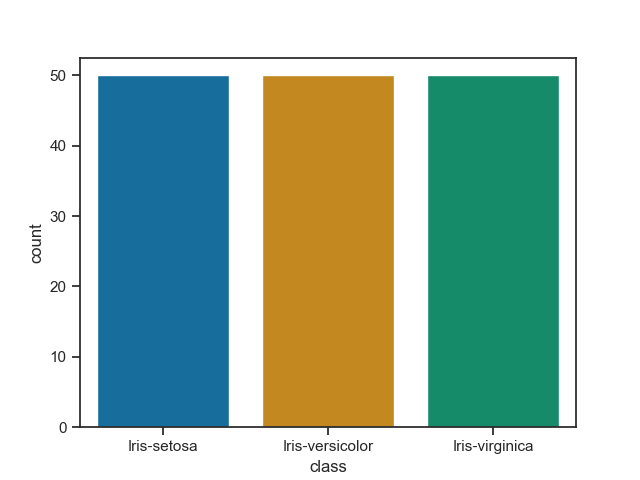
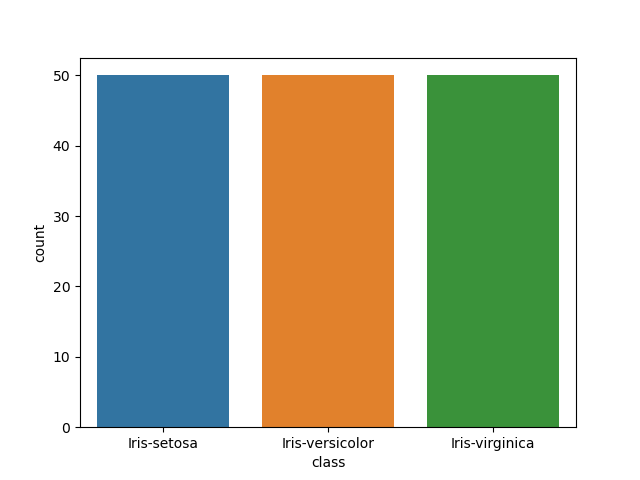
Updated with the restructuring of the code and generated files running again

diff --git a/analysis.py b/analysis.py
@@ -1,7 +1,5 @@
-# PROGRAMMING AND SCRIPTING PROJECT
+# PROGRAMMING AND SCRIPTING PROJECT: ANALYSIS OF THE FISHER’S IRIS DATASET
 # Author: Rita Ortega
-
-# SECTION 1: Outputs a summary of each variable to a single text file
 
 # Imports all the libraries used in the project:
 import pandas as pd
@@ -9,22 +7,28 @@ import matplotlib.pyplot as plt
 import seaborn as sns
 
 
-# Reads the CSV file using pandas and sets the name of the columns:
+# Reads the CSV file contains on the repository using pandas and sets the name of the columns:
 
 column_name = ['sepal_length', 'sepal_width',
                'petal_length', 'petal_width', 'class']
 df = pd.read_csv('iris_data.csv', names=column_name)
 
 
-# Prints out information about the dataset:
-print(df.info())
+# SECTION 1: Analysis Per Variable 
 
+# SECTION 1.1: Brief Description of The Dataset
+
+# Prints out a brief information about the dataset:
+print(df.info())
 
 # Prints out the first 10 rows of the dataset:
 print(df.head(10))
 
-# Creates a txt file called "variables_summary.txt" and writes a summary of each variable in it.
-# Also, it converts the Summary statistics of the Dataframe into a string in order to be able to save it into the file:
+
+# SECTION 1.2: Summary of Each Variable
+
+# Creates a txt file called "variables_summary.txt" and writes a summary of each variable in it using pandas
+# Also, it converts the summary statistics of the dataframe into a string in order to be able to save it into the file:
 
 filename = "variables_summary.txt"
 
@@ -34,28 +38,8 @@ with open(filename, 'wt') as f:
     f.write(variables_summary)
 
 
-"""
+# SECTION 1.3: Histogram of Each Quantitative Variable 
 
-REFERENCES:
-
-https://www.codegrepper.com/code-examples/python/pandas+read+csv+without+index
-https://pandas.pydata.org/docs/user_guide/io.html#io-read-csv-table
-https://www.adamsmith.haus/python/answers/how-to-set-column-names-when-importing-a-csv-into-a-pandas-dataframe-in-python#:~:text=Call%20pandas.,order%20they%20appear%20in%20names%20.
-https://www.sharpsightlabs.com/blog/pandas-describe/
-https://pandas.pydata.org/docs/reference/api/pandas.DataFrame.describe.html
-https://github.com/andrewbeattycourseware/pands2022/blob/main/jupyternotebooks/Topic07%20files.ipynb
-https://pandas.pydata.org/docs/reference/api/pandas.DataFrame.to_string.html
-https://www.w3schools.com/python/pandas/ref_df_info.asp#:~:text=The%20info()%20method%20prints,method%20actually%20prints%20the%20info. 
-https://www.w3resource.com/pandas/dataframe/dataframe-head.php
-
-
-"""
-
-
-# SECTION 2: Saves a histogram of each variable to png files
-
-
-# Histogram of each qualitative variable
 variables_histogram = df.hist(bins=15, color='blue', edgecolor='black', grid = False, xlabelsize=8, ylabelsize=8)
 plt.suptitle('Variables Histogram',
              fontsize=12.0, fontweight='bold', y=0.99)
@@ -63,7 +47,50 @@ plt.savefig("variables_histogram.png")
 plt.close()
 
 
-# Creates four files with histograms by class for each quantitative variable (sepal length, sepal width, petal_length and petal_width):
+# SECTION 1.4: Bar Plot for The Variable "Class"
+
+class_barplot = sns.countplot(x='class', data=df )
+plt.savefig("class_barplot.png")
+plt.close()
+
+
+# SECTION 1.5: Correlation Between Variables
+
+# Creates a txt file called "variables_correlation.txt" and writes a correlation table of each variable in it.
+# Also, it converts the correlation table into a string in order to be able to save it into the file.
+
+filename = "variables_correlation.txt"
+
+variables_correlation = df.corr().to_string()
+with open(filename, 'wt') as f:
+    f.write(variables_correlation)
+
+
+# Creates a correlation heatmap using seaborn library:
+heatmap_correlation = sns.heatmap(
+    df.corr(), vmin=-1, vmax=1, annot=True, linecolor='white', linewidth=1, cmap='GnBu')
+heatmap_correlation.set_title(
+    'Correlation Heatmap', fontsize=12.0, fontweight='bold')
+plt.savefig("correlation_heatmap.png")
+plt.close()
+
+# --------------------------------------------------
+
+# SECTION 2: Analysis of Each Quantitative Variable Grouped by Iris Species
+
+# SECTION 2.1: Summary of Each Variable Grouped by Iris Species
+
+filename = 'variables_summary_by_class.txt'
+variables_summary_by_class = df.groupby(['class']).describe(percentiles=[
+    0.05, 0.25, 0.75, 0.95]).transpose().to_string()
+
+with open(filename, 'wt') as f:
+    f.write(variables_summary_by_class)
+
+
+# SECTION 2.2: Histogram of Each Quantitative Variable Grouped by Iris Species
+
+# Creates four files with histograms by species for each quantitative variable (sepal length, sepal width, petal_length and petal_width):
 sepal_lenght_hist = df.hist(column='sepal_length', by='class', bins=15,
                             xlabelsize=8, ylabelsize=8, xrot=360, color='green', edgecolor='black')
 plt.suptitle('Sepal Length Histograms by Class',
@@ -92,26 +119,8 @@ plt.suptitle('Petal Width Histograms by Class',
 plt.savefig("petal_width_hist.png")
 plt.close()
 
-"""
 
-REFERENCES:
-https://moonbooks.org/Articles/How-to-create-an-histogram-from-a-dataframe-using-pandas-in-python-/
-https://stackoverflow.com/questions/31596084/save-dataframe-hist-to-a-file
-https://www.marsja.se/how-to-plot-a-histogram-with-pandas-in-3-simple-steps/
-https://www.machinelearningplus.com/pandas/pandas-histogram/
-https://datagy.io/histogram-python/
-https://pandas.pydata.org/docs/reference/api/pandas.DataFrame.hist.html
-https://stackoverflow.com/questions/19614400/add-title-to-collection-of-pandas-hist-plots
-https://www.includehelp.com/python/bold-text-label-in-plot.aspx
-https://www.oreilly.com/library/view/python-data-science/9781491912126/ch04.html
-https://matplotlib.org/stable/gallery/text_labels_and_annotations/titles_demo.html
-
-
-
-"""
-
-
-# SECTION 3: Outputs a scatter plot of each pair of variables to a png file
+# SECTION 2.3: Scatter Plot of Each Pair of Variables
 
 # It has been used the Seaborn library in order to perform this analysis. The result is saved to a png file.
 
@@ -123,49 +132,8 @@ plt.suptitle('Pair Plot of Each Pair of Quantitative Variables',
 plt.savefig("scatter_plots.png")
 plt.close()
 
-"""
 
-REFERENCES:
-https://towardsdatascience.com/visualizing-data-with-pair-plots-in-python-f228cf529166
-https://www.tutorialspoint.com/increase-the-distance-between-the-title-and-the-plot-in-matplotlib
-https://seaborn.pydata.org/generated/seaborn.pairplot.html
-https://seaborn.pydata.org/generated/seaborn.set_style.html
-https://goodboychan.github.io/python/datacamp/visualization/2020/06/27/01-Customizing-Seaborn-Plots.html
-https://wellsr.com/python/seaborn-scatter-plot-with-sns-scatterplot/
-https://stackoverflow.com/questions/37734512/savefig-loop-adds-previous-plots-to-figure?fbclid=IwAR101W3aPSKbrgkL3Yu7aDcehCFMBPVBF055xb1iNDqQE-AuM0Mjn4ArKaE
-
-
-
-
-
-"""
-
-
-# SECTION 4: Additional analysis that I think is appropriate for this case
-
-# SECTION 4.1: Correlation between variables
-
-# Creates a txt file called "variables_correlation.txt" and writes a correlation table of each variable in it.
-# Also, it converts the correlation table into a string in order to be able to save it into the file.
-
-filename = "variables_correlation.txt"
-
-variables_correlation = df.corr().to_string()
-with open(filename, 'wt') as f:
-    f.write(variables_correlation)
-
-
-# Creates a correlation heatmap using seaborn library:
-heatmap_correlation = sns.heatmap(
-    df.corr(), vmin=-1, vmax=1, annot=True, linecolor='white', linewidth=1, cmap='GnBu')
-heatmap_correlation.set_title(
-    'Correlation Heatmap', fontsize=12.0, fontweight='bold')
-plt.savefig("correlation_heatmap.png")
-plt.close()
-
-
-# SECTION 4.2: Box plots
-
+# SECTION 2.4: Box Plot of Each Quantitative Variable Grouped by Iris Species
 
 # Sets seaborn plotting aesthetics as default
 sns.set(style='ticks', palette= 'colorblind')
@@ -173,8 +141,8 @@ sns.set(style='ticks', palette= 'colorblind')
 # Defines plotting region (2 rows, 2 columns)
 fig, axes = plt.subplots(2, 2)
 plt.gcf().set_size_inches(20, 10)
-# Creates boxplot in each subplot for the four quantitative variables by class:
 
+# Creates boxplot in each subplot for the four quantitative variables by class:
 sns.boxplot(data=df, x='class', y='sepal_length', ax=axes[0, 0])
 sns.boxplot(data=df, x='class', y='sepal_width', ax=axes[0, 1])
 sns.boxplot(data=df, x='class', y='petal_length', ax=axes[1, 0])
@@ -183,24 +151,8 @@ plt.savefig("box_plots.png")
 plt.close()
 
 
-# SECTION 4.3: Variables Summary Group by Class
+# SECTION 2.5: Correlation Between Variables Grouped by Iris Species
 
-filename = 'variables_summary_by_class.txt'
-variables_summary_by_class = df.groupby(['class']).describe(percentiles=[
-    0.05, 0.25, 0.75, 0.95]).transpose().to_string()
-
-with open(filename, 'wt') as f:
-    f.write(variables_summary_by_class)
-
-
-# SECTION 4.4:
-
-class_barplot = sns.countplot(x='class', data=df )
-plt.savefig("class_barplot.png")
-plt.close()
-
-
-# SECTION 4.5: Variables Correlation Heatmap Group by Class
 
 sns.set(style='ticks')
 
@@ -232,30 +184,3 @@ plt.close()
 
 
 
-
-
-"""
-
-REFERENCES:
-https://www.adamsmith.haus/python/answers/how-to-find-the-correlation-between-two-pandas-dataframe-columns-in-python
-https://github.com/andrewbeattycourseware/pands2022/blob/main/jupyternotebooks/Topic07%20files.ipynb
-https://pandas.pydata.org/docs/reference/api/pandas.DataFrame.boxplot.html
-https://nickmccullum.com/python-visualization/boxplot/
-https://matplotlib.org/stable/tutorials/colors/colormaps.html
-https://seaborn.pydata.org/generated/seaborn.heatmap.html
-https://towardsdatascience.com/heatmap-basics-with-pythons-seaborn-fb92ea280a6c
-https://www.statology.org/seaborn-subplots/ 
-https://stackoverflow.com/questions/52274643/figsize-in-matplotlib-is-not-changing-the-figure-size
-https://pandas.pydata.org/docs/reference/api/pandas.DataFrame.groupby.html
-https://pandas.pydata.org/docs/reference/api/pandas.DataFrame.transpose.html
-https://towardsdatascience.com/matplotlib-seaborn-basics-2bd7b66dbee2
-https://s3.amazonaws.com/assets.datacamp.com/production/course_6919/slides/chapter2.pdf
-https://seaborn.pydata.org/tutorial/color_palettes.html
-https://seaborn.pydata.org/generated/seaborn.countplot.html
-https://stackoverflow.com/questions/10035446/how-can-i-make-a-blank-subplot-in-matplotlib
-https://stackoverflow.com/questions/32723798/how-do-i-add-a-title-and-axis-labels-to-seaborn-heatmap
-https://stackoverflow.com/questions/14734533/how-to-access-pandas-groupby-dataframe-by-key
-
-
-
-"""

diff --git a/README.md b/README.md
@@ -11,3 +11,51 @@ How to format source code in Visual Studio: https://mkyong.com/vscode/how-to-for
 
 
 
+CODE'S REFERENCES:
+
+https://www.codegrepper.com/code-examples/python/pandas+read+csv+without+index
+https://pandas.pydata.org/docs/user_guide/io.html#io-read-csv-table
+https://www.adamsmith.haus/python/answers/how-to-set-column-names-when-importing-a-csv-into-a-pandas-dataframe-in-python#:~:text=Call%20pandas.,order%20they%20appear%20in%20names%20.
+https://www.sharpsightlabs.com/blog/pandas-describe/
+https://pandas.pydata.org/docs/reference/api/pandas.DataFrame.describe.html
+https://github.com/andrewbeattycourseware/pands2022/blob/main/jupyternotebooks/Topic07%20files.ipynb
+https://pandas.pydata.org/docs/reference/api/pandas.DataFrame.to_string.html
+https://www.w3schools.com/python/pandas/ref_df_info.asp#:~:text=The%20info()%20method%20prints,method%20actually%20prints%20the%20info. 
+https://www.w3resource.com/pandas/dataframe/dataframe-head.php
+https://moonbooks.org/Articles/How-to-create-an-histogram-from-a-dataframe-using-pandas-in-python-/
+https://stackoverflow.com/questions/31596084/save-dataframe-hist-to-a-file
+https://www.marsja.se/how-to-plot-a-histogram-with-pandas-in-3-simple-steps/
+https://www.machinelearningplus.com/pandas/pandas-histogram/
+https://datagy.io/histogram-python/
+https://pandas.pydata.org/docs/reference/api/pandas.DataFrame.hist.html
+https://stackoverflow.com/questions/19614400/add-title-to-collection-of-pandas-hist-plots
+https://www.includehelp.com/python/bold-text-label-in-plot.aspx
+https://www.oreilly.com/library/view/python-data-science/9781491912126/ch04.html
+https://matplotlib.org/stable/gallery/text_labels_and_annotations/titles_demo.html
+https://towardsdatascience.com/visualizing-data-with-pair-plots-in-python-f228cf529166
+https://www.tutorialspoint.com/increase-the-distance-between-the-title-and-the-plot-in-matplotlib
+https://seaborn.pydata.org/generated/seaborn.pairplot.html
+https://seaborn.pydata.org/generated/seaborn.set_style.html
+https://goodboychan.github.io/python/datacamp/visualization/2020/06/27/01-Customizing-Seaborn-Plots.html
+https://wellsr.com/python/seaborn-scatter-plot-with-sns-scatterplot/
+https://stackoverflow.com/questions/37734512/savefig-loop-adds-previous-plots-to-figure?fbclid=IwAR101W3aPSKbrgkL3Yu7aDcehCFMBPVBF055xb1iNDqQE-AuM0Mjn4ArKaE
+https://www.adamsmith.haus/python/answers/how-to-find-the-correlation-between-two-pandas-dataframe-columns-in-python
+https://github.com/andrewbeattycourseware/pands2022/blob/main/jupyternotebooks/Topic07%20files.ipynb
+https://pandas.pydata.org/docs/reference/api/pandas.DataFrame.boxplot.html
+https://nickmccullum.com/python-visualization/boxplot/
+https://matplotlib.org/stable/tutorials/colors/colormaps.html
+https://seaborn.pydata.org/generated/seaborn.heatmap.html
+https://towardsdatascience.com/heatmap-basics-with-pythons-seaborn-fb92ea280a6c
+https://www.statology.org/seaborn-subplots/ 
+https://stackoverflow.com/questions/52274643/figsize-in-matplotlib-is-not-changing-the-figure-size
+https://pandas.pydata.org/docs/reference/api/pandas.DataFrame.groupby.html
+https://pandas.pydata.org/docs/reference/api/pandas.DataFrame.transpose.html
+https://towardsdatascience.com/matplotlib-seaborn-basics-2bd7b66dbee2
+https://s3.amazonaws.com/assets.datacamp.com/production/course_6919/slides/chapter2.pdf
+https://seaborn.pydata.org/tutorial/color_palettes.html
+https://seaborn.pydata.org/generated/seaborn.countplot.html
+https://stackoverflow.com/questions/10035446/how-can-i-make-a-blank-subplot-in-matplotlib
+https://stackoverflow.com/questions/32723798/how-do-i-add-a-title-and-axis-labels-to-seaborn-heatmap
+https://stackoverflow.com/questions/14734533/how-to-access-pandas-groupby-dataframe-by-key
+
+
